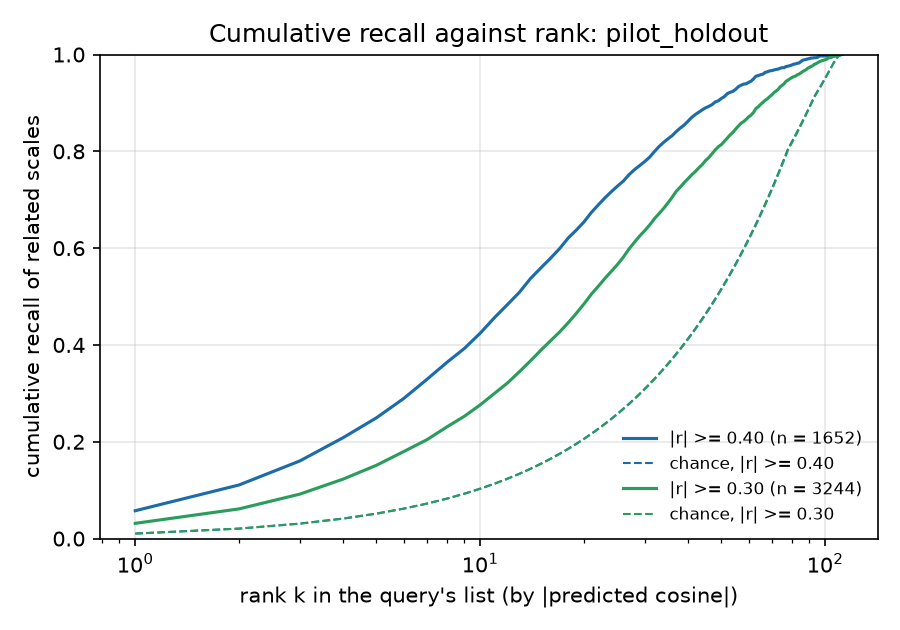
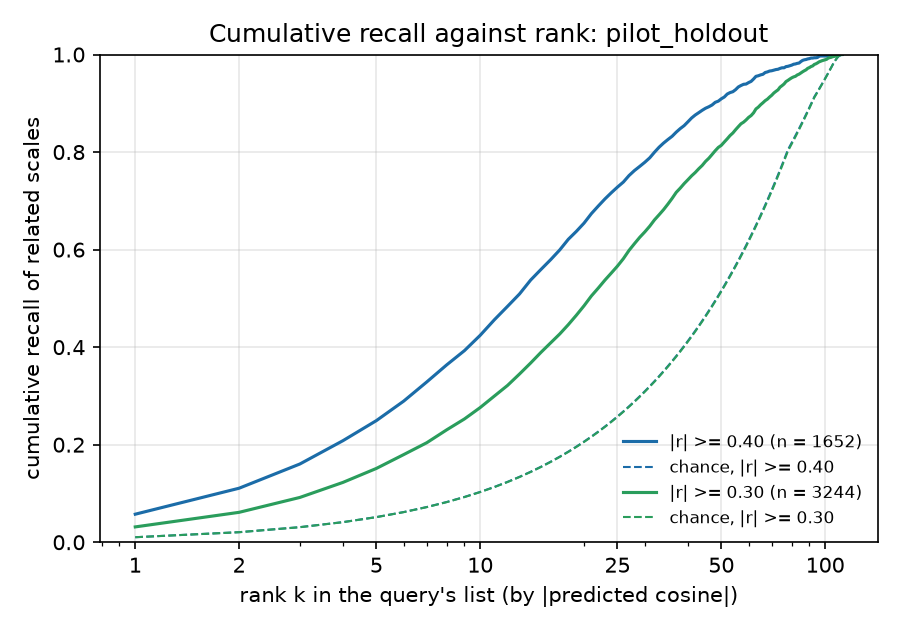
Fix rank-recall plot ticks; extrapolate rank recall to the full SynthNet corpus
Claude-Session: https://claude.ai/code/session_01R8heChbZBbkVmc3aSXjBYd

diff --git a/pooling_comparison/rank_recall_corpus.py b/pooling_comparison/rank_recall_corpus.py
@@ -1,0 +1,166 @@
+"""How would rank-based recall look in the real SynthNet corpus?
+
+    python pooling_comparison/rank_recall_corpus.py
+
+The validation datasets have only ~100 candidate scales per query, so rank
+recall there says little about a corpus of ~89,000 scales. Here every related
+validation pair (query q, database scale d, |empirical r| >= t) is placed into
+the real corpus: q is pooled with documented-sign pooling (variant B), scored
+against all corpus scale vectors, and the rank d would have in q's corpus
+list is 1 + the number of corpus scales whose |cosine| with q exceeds the
+predicted |cosine| of (q, d). This assumes d would score in the corpus as it
+does here, and treats every corpus scale that outranks d as a distractor,
+which is pessimistic: the corpus contains the validation instruments
+themselves and many genuinely related scales. A sensitivity variant drops
+corpus scales with |cosine| >= .80 to the query (near-duplicates, likely the
+same instrument).
+
+Also reported: how many corpus scales exceed the display thresholds per
+query, i.e. how long the displayed list would be.
+
+Inputs: results/pooling_comparison/scale_pair_predictions.csv (related pairs and
+their predicted cosines), the validation feathers (query vectors) and the
+corpus export CORPUS (item embeddings and keying per scale; re-pooled with variant B). Writes
+rank_recall_corpus.{csv,md} and rank_recall_corpus_<dataset>.png. Existing
+outputs are not modified.
+"""
+
+from __future__ import annotations
+
+import os
+import sys
+
+import numpy as np
+import pandas as pd
+
+HERE = os.path.dirname(os.path.abspath(__file__))
+sys.path.insert(0, HERE)
+import scale_pooling as sp  # noqa: E402
+from run_pooling_comparison import DATASETS, Dataset  # noqa: E402
+
+OUT = os.path.join(os.path.dirname(HERE), "results", "pooling_comparison")
+CORPUS = os.environ.get("SYNTHNET_CORPUS", "/Users/rubenarslan/research/items_llm/data/tmp.pkl")
+VARIANT = "documented"
+THRESHOLDS = [0.40, 0.30]
+KS = [5, 10, 25, 50, 100, 250, 1000]
+DUP = 0.80
+
+
+def load_corpus():
+    """Re-pool every corpus scale with variant B from its item embeddings and
+    keying ('negative' = reverse-keyed; missing keying = positive). The pooled
+    vectors shipped in the corpus export are plain means that ignore keying, so
+    they cannot be compared with variant-B query vectors."""
+    t = pd.read_pickle(CORPUS)[["meta_doi", "is_subscale", "keying", "embeddings"]]
+    V = np.empty((len(t), 768), dtype=np.float32)
+    n_mismatch = 0
+    for k, (E, keys) in enumerate(zip(t.embeddings.values, t.keying.values)):
+        E = np.asarray(E, dtype=np.float32)
+        if E.ndim == 1:
+            E = E[None, :]
+        rev = np.array([kk == "negative" for kk in keys], bool) if len(keys) == E.shape[0] else np.zeros(E.shape[0], bool)
+        n_mismatch += int(len(keys) != E.shape[0])
+        V[k] = sp.pool_documented(E, rev)
+    print(f"corpus: {len(t):,} scales re-pooled with variant B; {n_mismatch} rows with keying/embedding length mismatch (treated as all positive)")
+    return t.meta_doi.to_numpy(), t.is_subscale.to_numpy(), sp.unit(V)
+
+
+def main():
+    pp = pd.read_csv(os.path.join(OUT, "scale_pair_predictions.csv"))
+    pp = pp[~pp.same_instrument.astype(bool)].dropna(subset=[VARIANT, "empirical_r"])
+    doi, is_sub, C = load_corpus()
+    n_corpus = len(C)
+    rows, md = [], [
+        "# Rank-based recall extrapolated to the SynthNet corpus (variant B, cross-instrument)", "",
+        f"Corpus: {n_corpus:,} scale vectors ({(~is_sub).sum():,} instruments, {is_sub.sum():,} subscales), re-pooled with variant B from item embeddings and keying. "
+        "For each related validation pair the rank the database scale would have among all corpus scales is "
+        "1 + the number of corpus scales with a higher |cosine| to the query than the pair's predicted |cosine|. "
+        f"'excl. near-duplicates' drops corpus scales with |cosine| >= {DUP} to the query. Chance = k / corpus size. "
+        "Pessimistic: corpus scales that outrank a related scale may themselves be related to the query.", "",
+    ]
+    import matplotlib
+    matplotlib.use("Agg")
+    import matplotlib.pyplot as plt
+
+    for key, tag in DATASETS.items():
+        ds = Dataset(key, tag)
+        Q = {s: sp.unit(sp.pool_documented(np.stack([ds.emb[i] for i in ds.items[s]]), ds.rev_flags[s])) for s in ds.scale_names}
+        names = list(Q)
+        S = np.abs(np.stack([Q[s] for s in names]).astype(np.float32) @ C.T)  # queries x corpus
+        S_sorted = -np.sort(-S, axis=1)
+        qi = {s: k for k, s in enumerate(names)}
+        d = pp[pp.dataset == key]
+        long = pd.concat([
+            d.rename(columns={"scale_a": "query", "scale_b": "db"})[["query", "db", "empirical_r", VARIANT]],
+            d.rename(columns={"scale_b": "query", "scale_a": "db"})[["query", "db", "empirical_r", VARIANT]],
+        ], ignore_index=True)
+        long["abs_pred"] = long[VARIANT].abs()
+        long["abs_emp"] = long.empirical_r.abs()
+        q_idx = long["query"].map(qi).to_numpy()
+        # rank in corpus: number of corpus scales strictly above the pair's cosine
+        above = np.array([np.searchsorted(-S_sorted[q], -s, side="left") for q, s in zip(q_idx, long.abs_pred)])
+        dup = np.array([(S[q] >= DUP).sum() for q in q_idx])
+        long["corpus_rank"] = above + 1
+        long["corpus_rank_excl_dup"] = np.maximum(above - dup, 0) + 1
+        # displayed list length per query
+        shown = {t: (S >= t).sum(axis=1) for t in THRESHOLDS}
+        shown_dup = (S >= DUP).sum(axis=1)
+
+        md.append(f"## {key}")
+        md.append("")
+        md.append(f"{len(names)} query scales. Corpus scales per query with |cosine| >= .40: median {np.median(shown[0.40]):.0f} "
+                  f"(IQR {np.percentile(shown[0.40], 25):.0f} to {np.percentile(shown[0.40], 75):.0f}); >= .30: median {np.median(shown[0.30]):.0f}; "
+                  f">= {DUP} (near-duplicates): median {np.median(shown_dup):.0f}, max {shown_dup.max()}.")
+        md.append("")
+        hdr = ["threshold", "ranking", "related pairs", "median corpus rank"] + [f"top {k}" for k in KS]
+        lines = ["| " + " | ".join(hdr) + " |", "|" + "|".join(["---"] * len(hdr)) + "|"]
+        fig, ax = plt.subplots(figsize=(6, 4.2))
+        for t, color in zip(THRESHOLDS, ["#1b6ca8", "#2a9d5c"]):
+            rel = long[long.abs_emp >= t]
+            for col, label, ls in [("corpus_rank", "all corpus scales", "-"), ("corpus_rank_excl_dup", "excl. near-duplicates", "-.")]:
+                r = rel[col].to_numpy()
+                row = dict(dataset=key, threshold=t, ranking=label, n_related_pairs=len(rel),
+                           n_corpus=n_corpus, median_corpus_rank=float(np.median(r)),
+                           median_shown_at_threshold=float(np.median(shown[t])))
+                for k in KS:
+                    row[f"recall_at_{k}"] = float((r <= k).mean())
+                    row[f"chance_at_{k}"] = k / n_corpus
+                rows.append(row)
+                lines.append("| " + " | ".join(
+                    [f"|r| >= {t:.2f}", label, str(len(rel)), f"{np.median(r):.0f}"] +
+                    [f"{row[f'recall_at_{k}']:.2f}" for k in KS]) + " |")
+                ks = np.unique(np.concatenate([np.arange(1, 101), np.geomspace(100, n_corpus, 60).astype(int)]))
+                ax.plot(ks, [(r <= k).mean() for k in ks], color=color, linestyle=ls,
+                        label=f"|r| >= {t:.2f}, {label}")
+        ks = np.geomspace(1, n_corpus, 100)
+        ax.plot(ks, ks / n_corpus, color="grey", linestyle="--", linewidth=1, label="chance")
+        ax.set_xscale("log")
+        from matplotlib.ticker import FixedLocator, FixedFormatter, NullFormatter
+        ticks = [1, 10, 100, 1000, 10000, n_corpus]
+        ax.xaxis.set_major_locator(FixedLocator(ticks))
+        ax.xaxis.set_major_formatter(FixedFormatter([f"{x:,}" for x in ticks]))
+        ax.xaxis.set_minor_formatter(NullFormatter())
+        ax.set_ylim(0, 1)
+        ax.grid(alpha=0.3)
+        ax.set_xlabel("rank k in the query's corpus list (by |cosine|)")
+        ax.set_ylabel("cumulative recall of related scales")
+        ax.set_title(f"Recall against corpus rank: {key}")
+        ax.legend(frameon=False, fontsize=7, loc="upper left")
+        fig.tight_layout()
+        fig.savefig(os.path.join(OUT, f"rank_recall_corpus_{key}.png"), dpi=150)
+        plt.close(fig)
+        md.extend(lines)
+        md.append("")
+        md.append(f"Chance at k: {', '.join(f'top {k} = {k / n_corpus:.4f}' for k in KS)}.")
+        md.append("")
+        md.append(f"![](rank_recall_corpus_{key}.png)")
+        md.append("")
+
+    pd.DataFrame(rows).to_csv(os.path.join(OUT, "rank_recall_corpus.csv"), index=False)
+    with open(os.path.join(OUT, "rank_recall_corpus.md"), "w") as fh:
+        fh.write("\n".join(md) + "\n")
+    print("\n".join(l for l in md if not l.startswith("![")))
+
+
+if __name__ == "__main__":
+    main()

diff --git a/pooling_comparison/rank_recall.py b/pooling_comparison/rank_recall.py
@@ -56,7 +56,8 @@ def main():
     rows, md = [], ["# Rank-based recall of related scales (variant B, cross-instrument)", "",
                     "For each query scale, cross-instrument database scales are ranked by |predicted cosine|. "
                     "Each related pair enters twice (once per direction). Chance = expected share under random "
-                    "ordering, min(k, list size) / list size averaged over pairs.", ""]
+                    "ordering, min(k, list size) / list size averaged over pairs; it reaches 1 once k covers the whole list "
+                    "(lists have about 65 to 112 entries). Median rank is kept in rank_recall.csv.", ""]
     import matplotlib
     matplotlib.use("Agg")
     import matplotlib.pyplot as plt
@@ -68,13 +69,13 @@ def main():
         md.append("")
         md.append(f"{long['query'].nunique()} query scales, list sizes {int(long.list_size.min())} to {int(long.list_size.max())}.")
         md.append("")
-        hdr = ["threshold", "related pairs", "queries", "median rank", "top 5", "top 10", "top 25", "top 50", "top 100"]
+        hdr = ["threshold", "related pairs", "queries", "top 5", "top 10", "top 25", "top 50", "top 100"]
         lines = ["| " + " | ".join(hdr) + " |", "|" + "|".join(["---"] * len(hdr)) + "|"]
         for t, color in zip(THRESHOLDS, ["#1b6ca8", "#2a9d5c"]):
             rel = long[long.abs_emp >= t]
             s = summarise(rel)
             rows.append(dict(dataset=ds, threshold=t, **s))
-            cells = [f"|r| >= {t:.2f}", str(s["n_related_pairs"]), str(s["n_queries"]), f"{s['median_rank']:.0f}"] + [
+            cells = [f"|r| >= {t:.2f}", str(s["n_related_pairs"]), str(s["n_queries"])] + [
                 f"{s[f'recall_at_{k}']:.2f} (chance {s[f'chance_at_{k}']:.2f})" for k in KS]
             lines.append("| " + " | ".join(cells) + " |")
             # cumulative recall curve vs rank, and chance
@@ -91,6 +92,11 @@ def main():
         ax.set_xlabel("rank k in the query's list (by |predicted cosine|)")
         ax.set_ylabel("cumulative recall of related scales")
         ax.set_xscale("log")
+        from matplotlib.ticker import FixedLocator, FixedFormatter, NullFormatter
+        ticks = [1, 2, 5, 10, 25, 50, 100]
+        ax.xaxis.set_major_locator(FixedLocator(ticks))
+        ax.xaxis.set_major_formatter(FixedFormatter([str(t) for t in ticks]))
+        ax.xaxis.set_minor_formatter(NullFormatter())
         ax.set_ylim(0, 1)
         ax.grid(alpha=0.3)
         ax.set_title(f"Cumulative recall against rank: {ds}")

diff --git a/results/pooling_comparison/rank_recall.md b/results/pooling_comparison/rank_recall.md
@@ -1,15 +1,15 @@
 # Rank-based recall of related scales (variant B, cross-instrument)
 
-For each query scale, cross-instrument database scales are ranked by |predicted cosine|. Each related pair enters twice (once per direction). Chance = expected share under random ordering, min(k, list size) / list size averaged over pairs.
+For each query scale, cross-instrument database scales are ranked by |predicted cosine|. Each related pair enters twice (once per direction). Chance = expected share under random ordering, min(k, list size) / list size averaged over pairs; it reaches 1 once k covers the whole list (lists have about 65 to 112 entries). Median rank is kept in rank_recall.csv.
 
 ## pilot_holdout
 
 113 query scales, list sizes 78 to 112.
 
-| threshold | related pairs | queries | median rank | top 5 | top 10 | top 25 | top 50 | top 100 |
-|---|---|---|---|---|---|---|---|---|
-| |r| >= 0.40 | 1652 | 110 | 13 | 0.25 (chance 0.05) | 0.42 (chance 0.10) | 0.73 (chance 0.26) | 0.91 (chance 0.52) | 1.00 (chance 0.95) |
-| |r| >= 0.30 | 3244 | 113 | 21 | 0.15 (chance 0.05) | 0.28 (chance 0.10) | 0.57 (chance 0.26) | 0.81 (chance 0.51) | 0.99 (chance 0.95) |
+| threshold | related pairs | queries | top 5 | top 10 | top 25 | top 50 | top 100 |
+|---|---|---|---|---|---|---|---|
+| |r| >= 0.40 | 1652 | 110 | 0.25 (chance 0.05) | 0.42 (chance 0.10) | 0.73 (chance 0.26) | 0.91 (chance 0.52) | 1.00 (chance 0.95) |
+| |r| >= 0.30 | 3244 | 113 | 0.15 (chance 0.05) | 0.28 (chance 0.10) | 0.57 (chance 0.26) | 0.81 (chance 0.51) | 0.99 (chance 0.95) |
 
 ![](rank_recall_pilot_holdout.png)
 
@@ -17,10 +17,10 @@ For each query scale, cross-instrument database scales are ranked by |predicted 
 
 80 query scales, list sizes 65 to 79.
 
-| threshold | related pairs | queries | median rank | top 5 | top 10 | top 25 | top 50 | top 100 |
-|---|---|---|---|---|---|---|---|---|
-| |r| >= 0.40 | 664 | 52 | 12 | 0.26 (chance 0.07) | 0.45 (chance 0.13) | 0.78 (chance 0.33) | 0.94 (chance 0.66) | 1.00 (chance 1.00) |
-| |r| >= 0.30 | 1334 | 74 | 19 | 0.16 (chance 0.07) | 0.30 (chance 0.13) | 0.62 (chance 0.34) | 0.89 (chance 0.67) | 1.00 (chance 1.00) |
+| threshold | related pairs | queries | top 5 | top 10 | top 25 | top 50 | top 100 |
+|---|---|---|---|---|---|---|---|
+| |r| >= 0.40 | 664 | 52 | 0.26 (chance 0.07) | 0.45 (chance 0.13) | 0.78 (chance 0.33) | 0.94 (chance 0.66) | 1.00 (chance 1.00) |
+| |r| >= 0.30 | 1334 | 74 | 0.16 (chance 0.07) | 0.30 (chance 0.13) | 0.62 (chance 0.34) | 0.89 (chance 0.67) | 1.00 (chance 1.00) |
 
 ![](rank_recall_validation_prolific.png)
 

diff --git a/results/pooling_comparison/rank_recall_corpus.md b/results/pooling_comparison/rank_recall_corpus.md
@@ -1,0 +1,34 @@
+# Rank-based recall extrapolated to the SynthNet corpus (variant B, cross-instrument)
+
+Corpus: 89,082 scale vectors (29,758 instruments, 59,324 subscales), re-pooled with variant B from item embeddings and keying. For each related validation pair the rank the database scale would have among all corpus scales is 1 + the number of corpus scales with a higher |cosine| to the query than the pair's predicted |cosine|. 'excl. near-duplicates' drops corpus scales with |cosine| >= 0.8 to the query. Chance = k / corpus size. Pessimistic: corpus scales that outrank a related scale may themselves be related to the query.
+
+## pilot_holdout
+
+113 query scales. Corpus scales per query with |cosine| >= .40: median 2401 (IQR 488 to 4287); >= .30: median 8772; >= 0.8 (near-duplicates): median 1, max 38.
+
+| threshold | ranking | related pairs | median corpus rank | top 5 | top 10 | top 25 | top 50 | top 100 | top 250 | top 1000 |
+|---|---|---|---|---|---|---|---|---|---|---|
+| |r| >= 0.40 | all corpus scales | 1652 | 2760 | 0.01 | 0.02 | 0.03 | 0.06 | 0.09 | 0.14 | 0.30 |
+| |r| >= 0.40 | excl. near-duplicates | 1652 | 2745 | 0.01 | 0.02 | 0.04 | 0.06 | 0.09 | 0.14 | 0.30 |
+| |r| >= 0.30 | all corpus scales | 3244 | 6036 | 0.00 | 0.01 | 0.02 | 0.03 | 0.05 | 0.08 | 0.18 |
+| |r| >= 0.30 | excl. near-duplicates | 3244 | 6033 | 0.01 | 0.01 | 0.02 | 0.03 | 0.05 | 0.08 | 0.18 |
+
+Chance at k: top 5 = 0.0001, top 10 = 0.0001, top 25 = 0.0003, top 50 = 0.0006, top 100 = 0.0011, top 250 = 0.0028, top 1000 = 0.0112.
+
+![](rank_recall_corpus_pilot_holdout.png)
+
+## validation_prolific
+
+80 query scales. Corpus scales per query with |cosine| >= .40: median 346 (IQR 53 to 3352); >= .30: median 2616; >= 0.8 (near-duplicates): median 0, max 67.
+
+| threshold | ranking | related pairs | median corpus rank | top 5 | top 10 | top 25 | top 50 | top 100 | top 250 | top 1000 |
+|---|---|---|---|---|---|---|---|---|---|---|
+| |r| >= 0.40 | all corpus scales | 664 | 7846 | 0.00 | 0.00 | 0.00 | 0.01 | 0.02 | 0.04 | 0.12 |
+| |r| >= 0.40 | excl. near-duplicates | 664 | 7844 | 0.00 | 0.00 | 0.00 | 0.01 | 0.02 | 0.04 | 0.13 |
+| |r| >= 0.30 | all corpus scales | 1334 | 14245 | 0.00 | 0.00 | 0.00 | 0.01 | 0.01 | 0.02 | 0.07 |
+| |r| >= 0.30 | excl. near-duplicates | 1334 | 14232 | 0.00 | 0.00 | 0.00 | 0.01 | 0.01 | 0.02 | 0.07 |
+
+Chance at k: top 5 = 0.0001, top 10 = 0.0001, top 25 = 0.0003, top 50 = 0.0006, top 100 = 0.0011, top 250 = 0.0028, top 1000 = 0.0112.
+
+![](rank_recall_corpus_validation_prolific.png)
+
